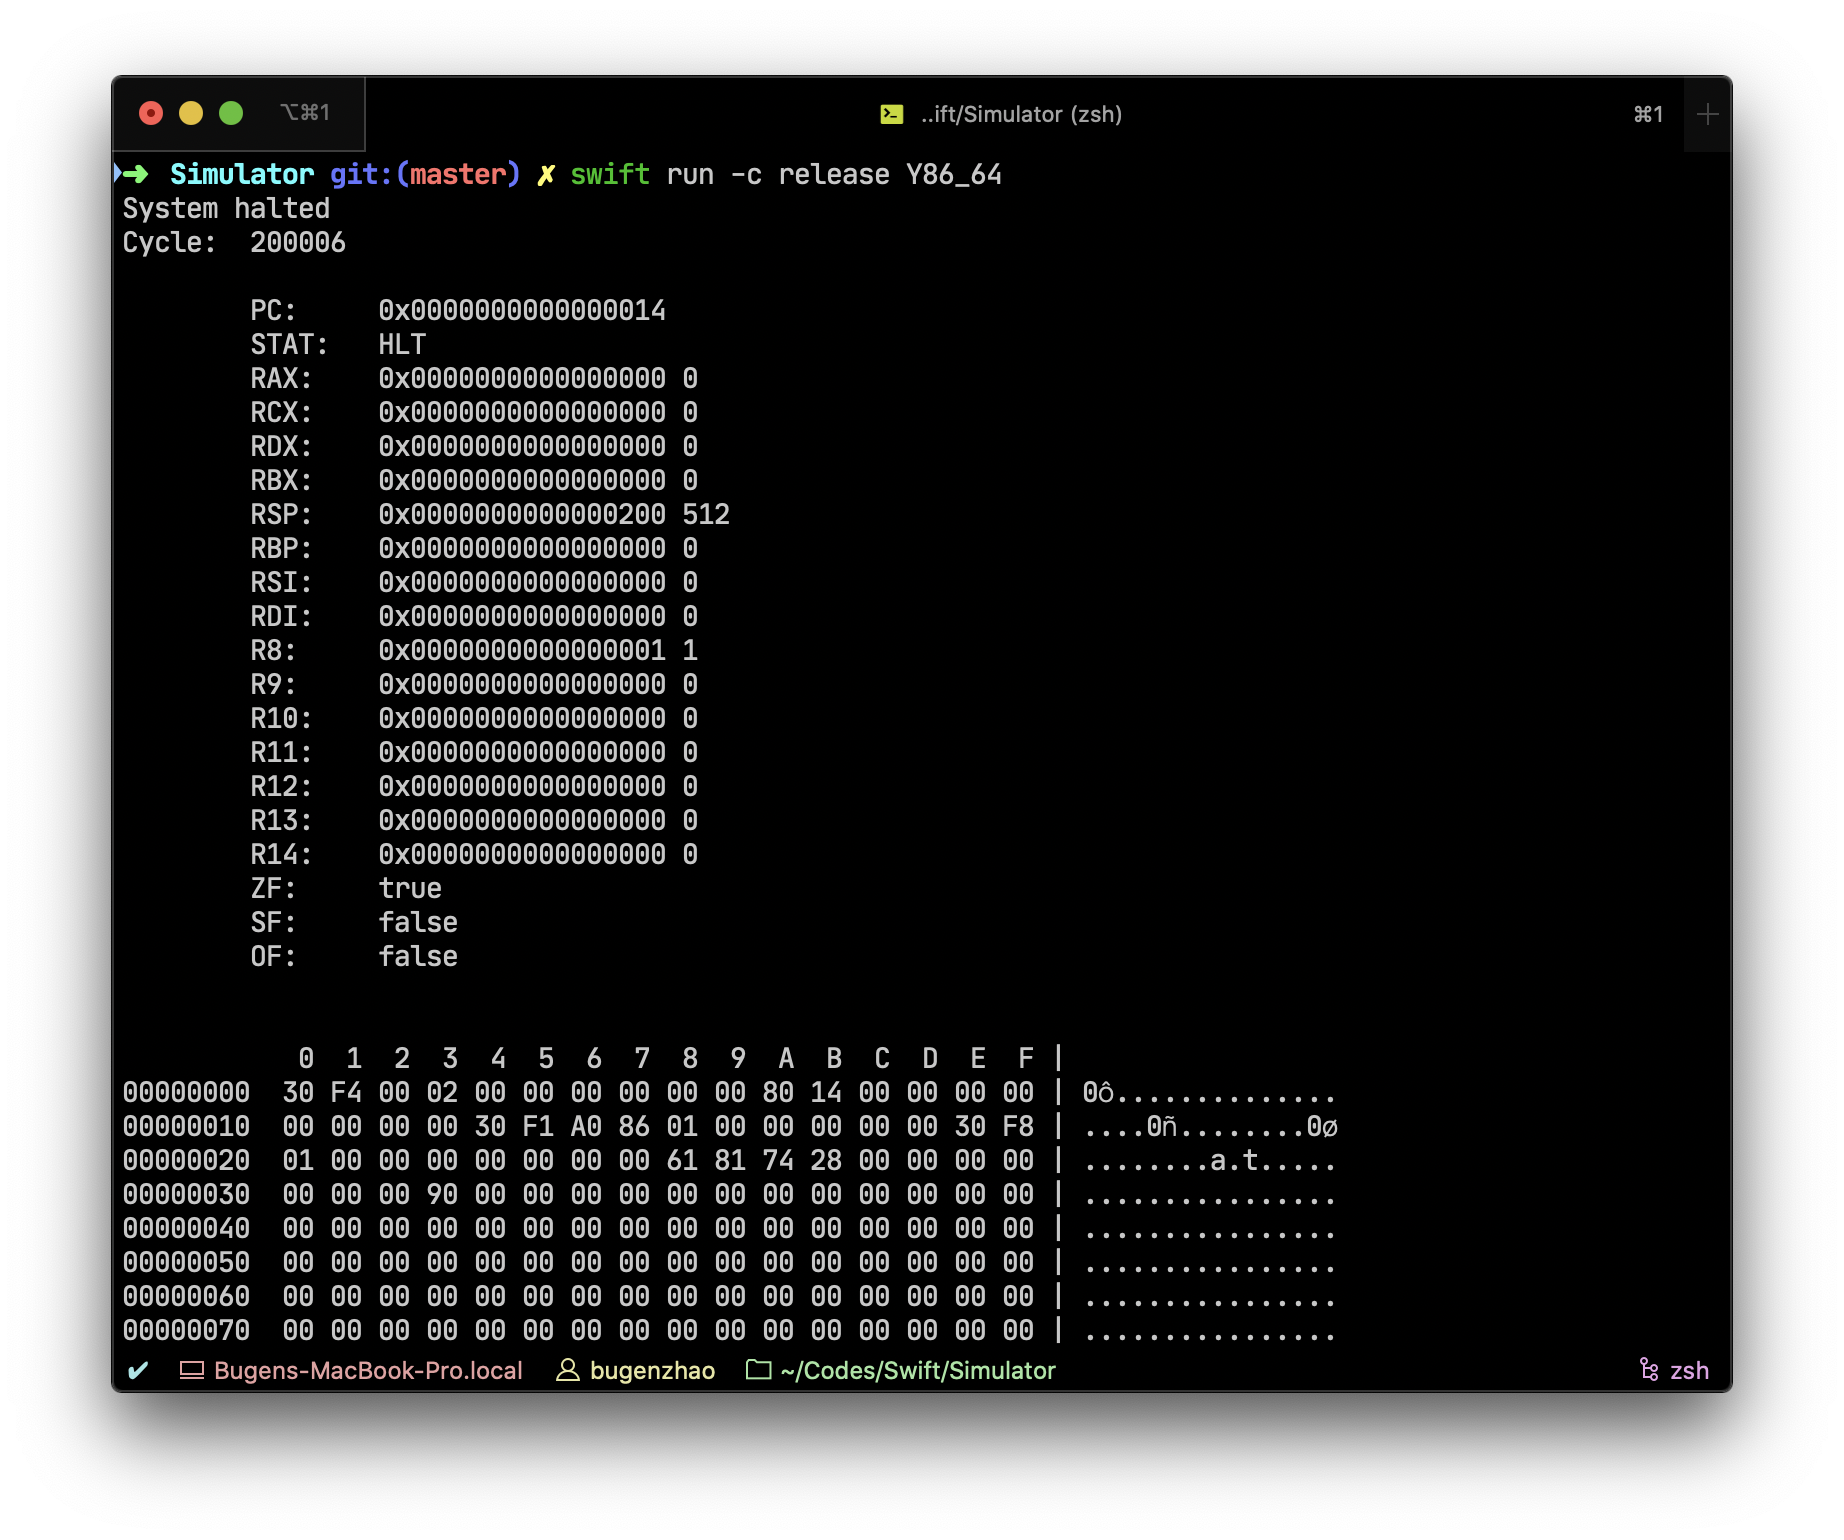
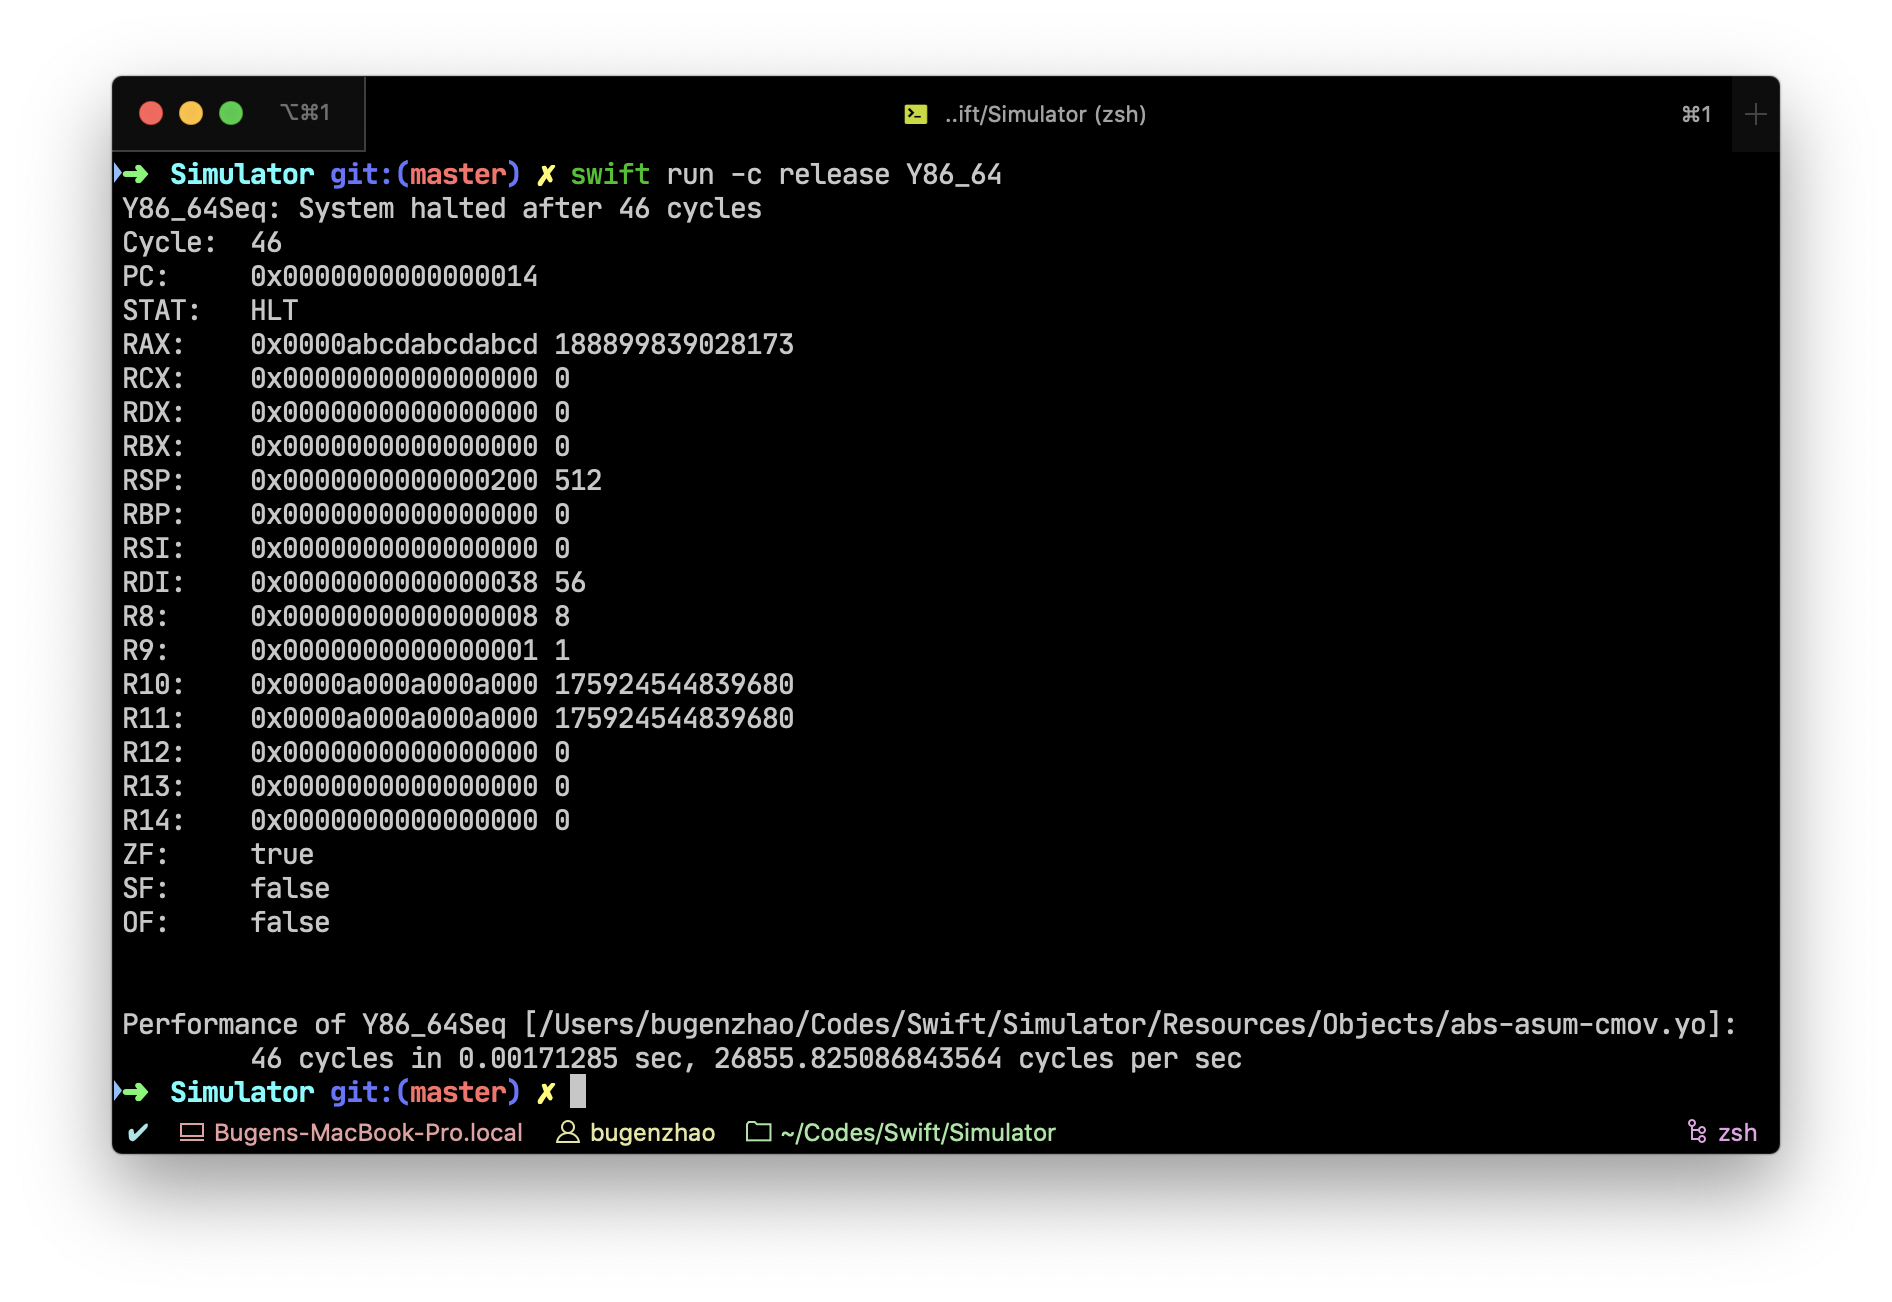
Updated: intro

Changed region(s): [[0.0309, 0.0307, 0.9582, 0.9524], [0.711, 0.7066, 0.7419, 0.7373]]

diff --git a/Sources/Y86_64GenericLib/Y86_64System.swift b/Sources/Y86_64GenericLib/Y86_64System.swift
@@ -31,26 +31,26 @@ extension Y86_64System {
         let statDesc = S.statDesc(stat: self.stat![b: 0])
 
         print("Cycle:\t\(um.cycle)")
-        print("\tPC: \t\(String(format: "0x%016llx", pc![0]))")
-        print("\tSTAT:\t\(statDesc)")
-        print("\tRAX:\t\(String(format: "0x%016llx %lld", register![R.RAX], register![R.RAX]))")
-        print("\tRCX:\t\(String(format: "0x%016llx %lld", register![R.RCX], register![R.RCX]))")
-        print("\tRDX:\t\(String(format: "0x%016llx %lld", register![R.RDX], register![R.RDX]))")
-        print("\tRBX:\t\(String(format: "0x%016llx %lld", register![R.RBX], register![R.RBX]))")
-        print("\tRSP:\t\(String(format: "0x%016llx %lld", register![R.RSP], register![R.RSP]))")
-        print("\tRBP:\t\(String(format: "0x%016llx %lld", register![R.RBP], register![R.RBP]))")
-        print("\tRSI:\t\(String(format: "0x%016llx %lld", register![R.RSI], register![R.RSI]))")
-        print("\tRDI:\t\(String(format: "0x%016llx %lld", register![R.RDI], register![R.RDI]))")
-        print("\tR8: \t\(String(format: "0x%016llx %lld", register![R.R8], register![R.R8]))")
-        print("\tR9: \t\(String(format: "0x%016llx %lld", register![R.R9], register![R.R9]))")
-        print("\tR10:\t\(String(format: "0x%016llx %lld", register![R.R10], register![R.R10]))")
-        print("\tR11:\t\(String(format: "0x%016llx %lld", register![R.R11], register![R.R11]))")
-        print("\tR12:\t\(String(format: "0x%016llx %lld", register![R.R12], register![R.R12]))")
-        print("\tR13:\t\(String(format: "0x%016llx %lld", register![R.R13], register![R.R13]))")
-        print("\tR14:\t\(String(format: "0x%016llx %lld", register![R.R14], register![R.R14]))")
-        print("\tZF: \t\(cc![b: 0] != 0)")
-        print("\tSF: \t\(cc![b: 1] != 0)")
-        print("\tOF: \t\(cc![b: 2] != 0)")
+        print("PC: \t\(String(format: "0x%016llx", pc![0]))")
+        print("STAT:\t\(statDesc)")
+        print("RAX:\t\(String(format: "0x%016llx %lld", register![R.RAX], register![R.RAX]))")
+        print("RCX:\t\(String(format: "0x%016llx %lld", register![R.RCX], register![R.RCX]))")
+        print("RDX:\t\(String(format: "0x%016llx %lld", register![R.RDX], register![R.RDX]))")
+        print("RBX:\t\(String(format: "0x%016llx %lld", register![R.RBX], register![R.RBX]))")
+        print("RSP:\t\(String(format: "0x%016llx %lld", register![R.RSP], register![R.RSP]))")
+        print("RBP:\t\(String(format: "0x%016llx %lld", register![R.RBP], register![R.RBP]))")
+        print("RSI:\t\(String(format: "0x%016llx %lld", register![R.RSI], register![R.RSI]))")
+        print("RDI:\t\(String(format: "0x%016llx %lld", register![R.RDI], register![R.RDI]))")
+        print("R8: \t\(String(format: "0x%016llx %lld", register![R.R8], register![R.R8]))")
+        print("R9: \t\(String(format: "0x%016llx %lld", register![R.R9], register![R.R9]))")
+        print("R10:\t\(String(format: "0x%016llx %lld", register![R.R10], register![R.R10]))")
+        print("R11:\t\(String(format: "0x%016llx %lld", register![R.R11], register![R.R11]))")
+        print("R12:\t\(String(format: "0x%016llx %lld", register![R.R12], register![R.R12]))")
+        print("R13:\t\(String(format: "0x%016llx %lld", register![R.R13], register![R.R13]))")
+        print("R14:\t\(String(format: "0x%016llx %lld", register![R.R14], register![R.R14]))")
+        print("ZF: \t\(cc![b: 0] != 0)")
+        print("SF: \t\(cc![b: 1] != 0)")
+        print("OF: \t\(cc![b: 2] != 0)")
         print("\n")
     }
 

diff --git a/Sources/Y86_64/main.swift b/Sources/Y86_64/main.swift
@@ -6,9 +6,9 @@ import Foundation
 let system: Y86_64System = Y86_64Seq()
 
 #if Xcode
-let yo = "/Users/bugenzhao/Codes/Swift/Simulator/Resources/Objects/asumi.yo"
+let yo = "/Users/bugenzhao/Codes/Swift/Simulator/Resources/Objects/abs-asum-cmov.yo"
 #else
-let yo = FileManager.default.currentDirectoryPath + "/Resources/Objects/asumi.yo"
+let yo = FileManager.default.currentDirectoryPath + "/Resources/Objects/abs-asum-cmov.yo"
 #endif
 
 system.loadYO(yo)

diff --git a/Sources/Y86_64SeqLib/Y86_64Seq.swift b/Sources/Y86_64SeqLib/Y86_64Seq.swift
@@ -81,7 +81,7 @@ public class Y86_64Seq: Machine, Y86_64System {
             if debug { printStatus(); print(">>", terminator: ""); _ = readLine() }
         } while !halted
 
-        print("\(type(of: self))\n\tSystem halted after \(um.cycle) cycles")
+        print("\(type(of: self)): System halted after \(um.cycle) cycles")
         printStatus()
     }
 

diff --git a/README.md b/README.md
@@ -1,7 +1,8 @@
 # Simulator
 
 ![Language](https://img.shields.io/badge/Language-Swift%205.2-orange.svg)
-![Actions](https://github.com/bugenzhao/Simulator/workflows/Simulator/badge.svg)
+![macOS](https://github.com/BugenZhao/Simulator/workflows/macOS/badge.svg)
+![Ubuntu](https://github.com/BugenZhao/Simulator/workflows/Ubuntu/badge.svg)
 
 Bugen's logic-circuit-level CPU Simulator, in a descriptive manner. (WIP)
 
